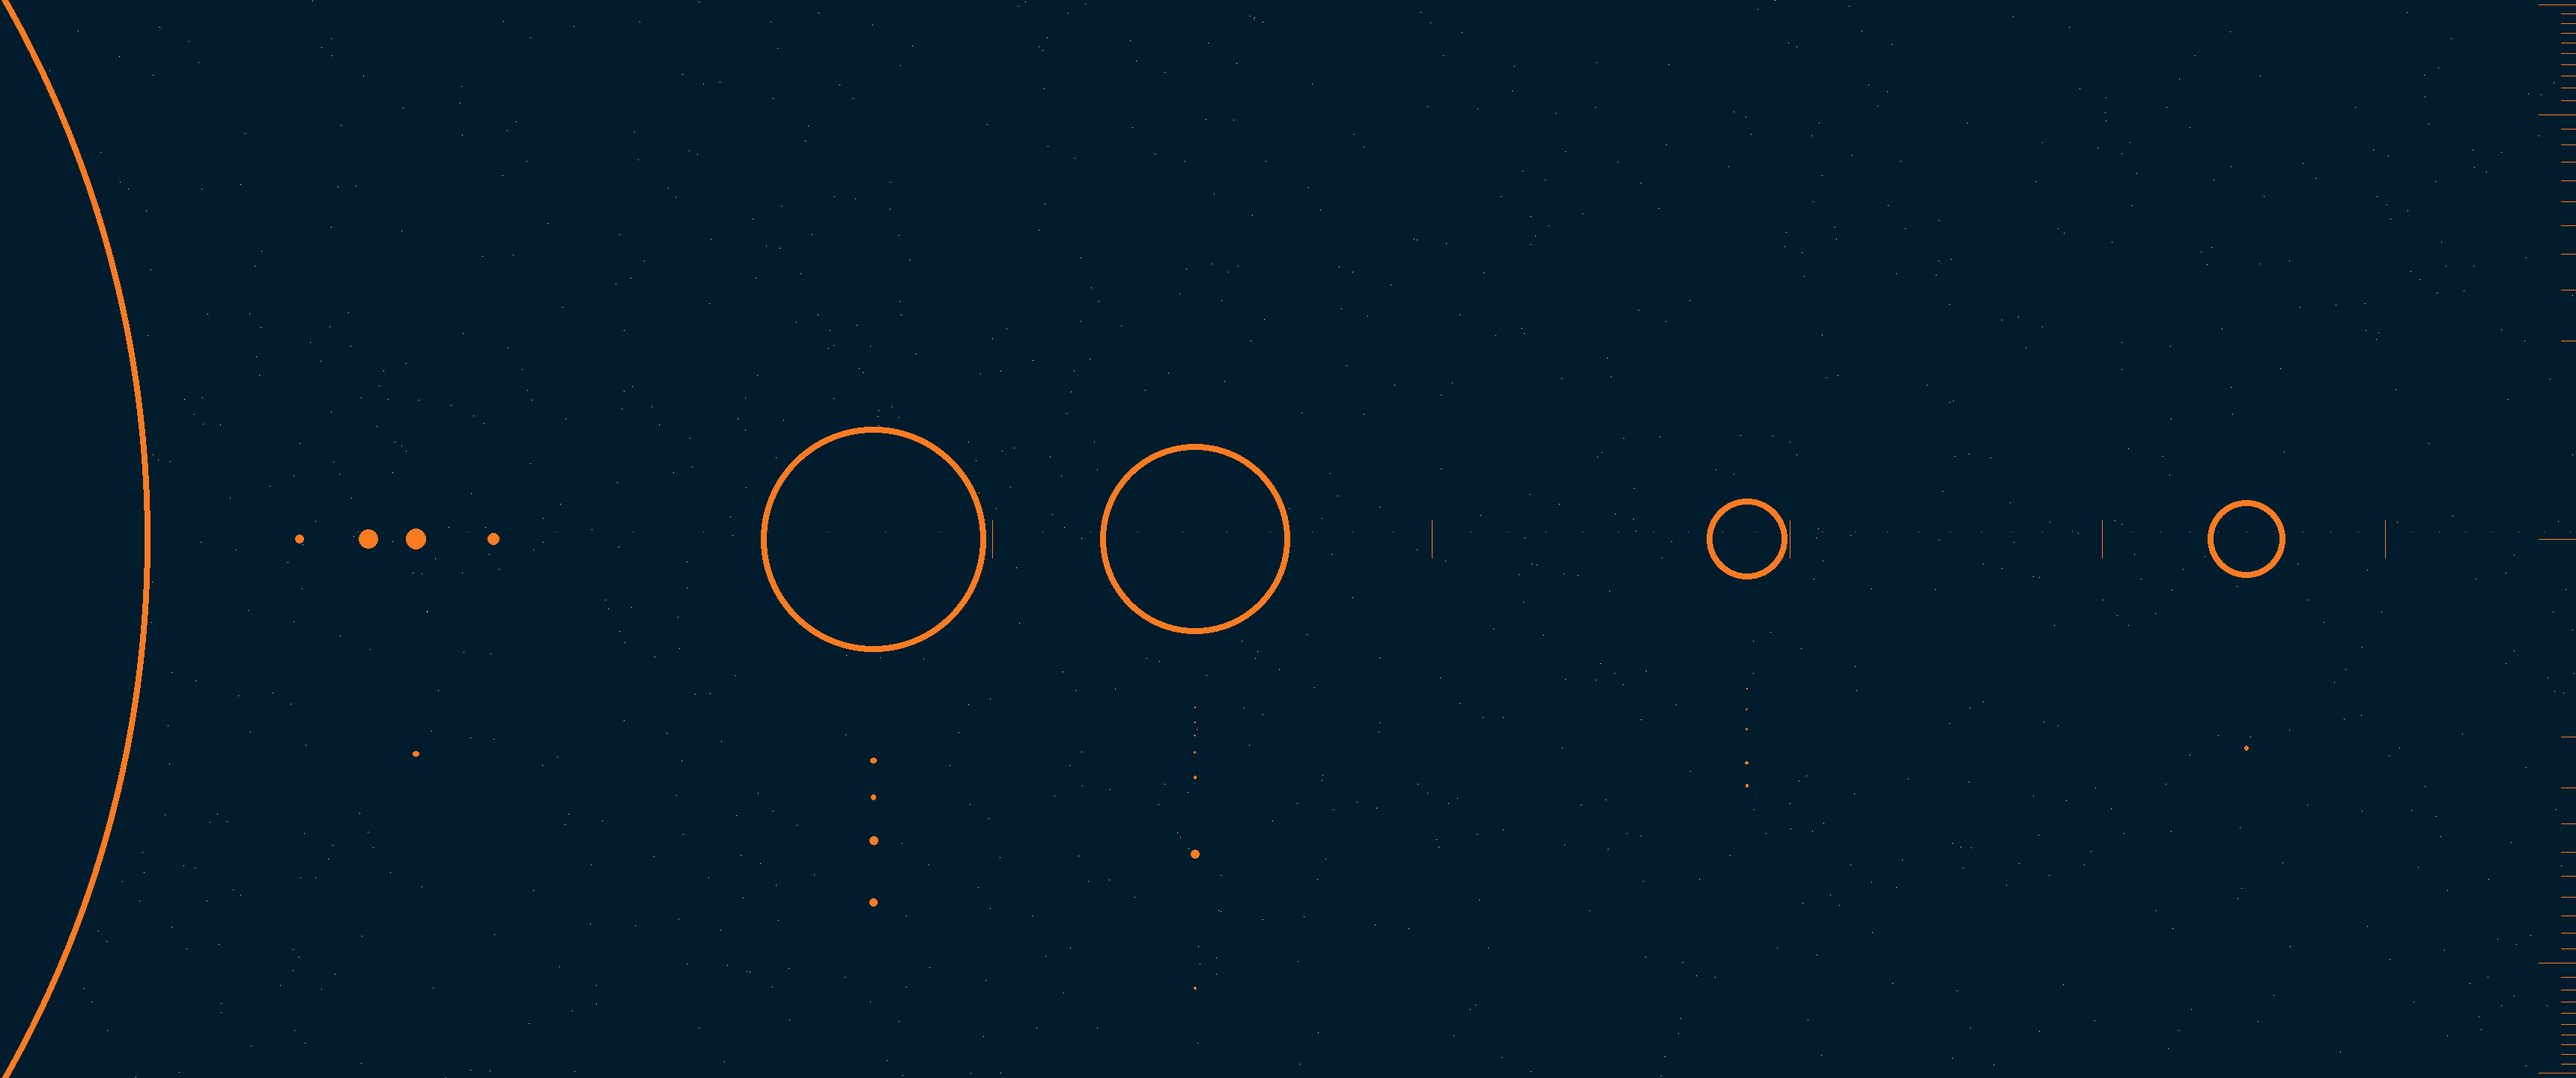
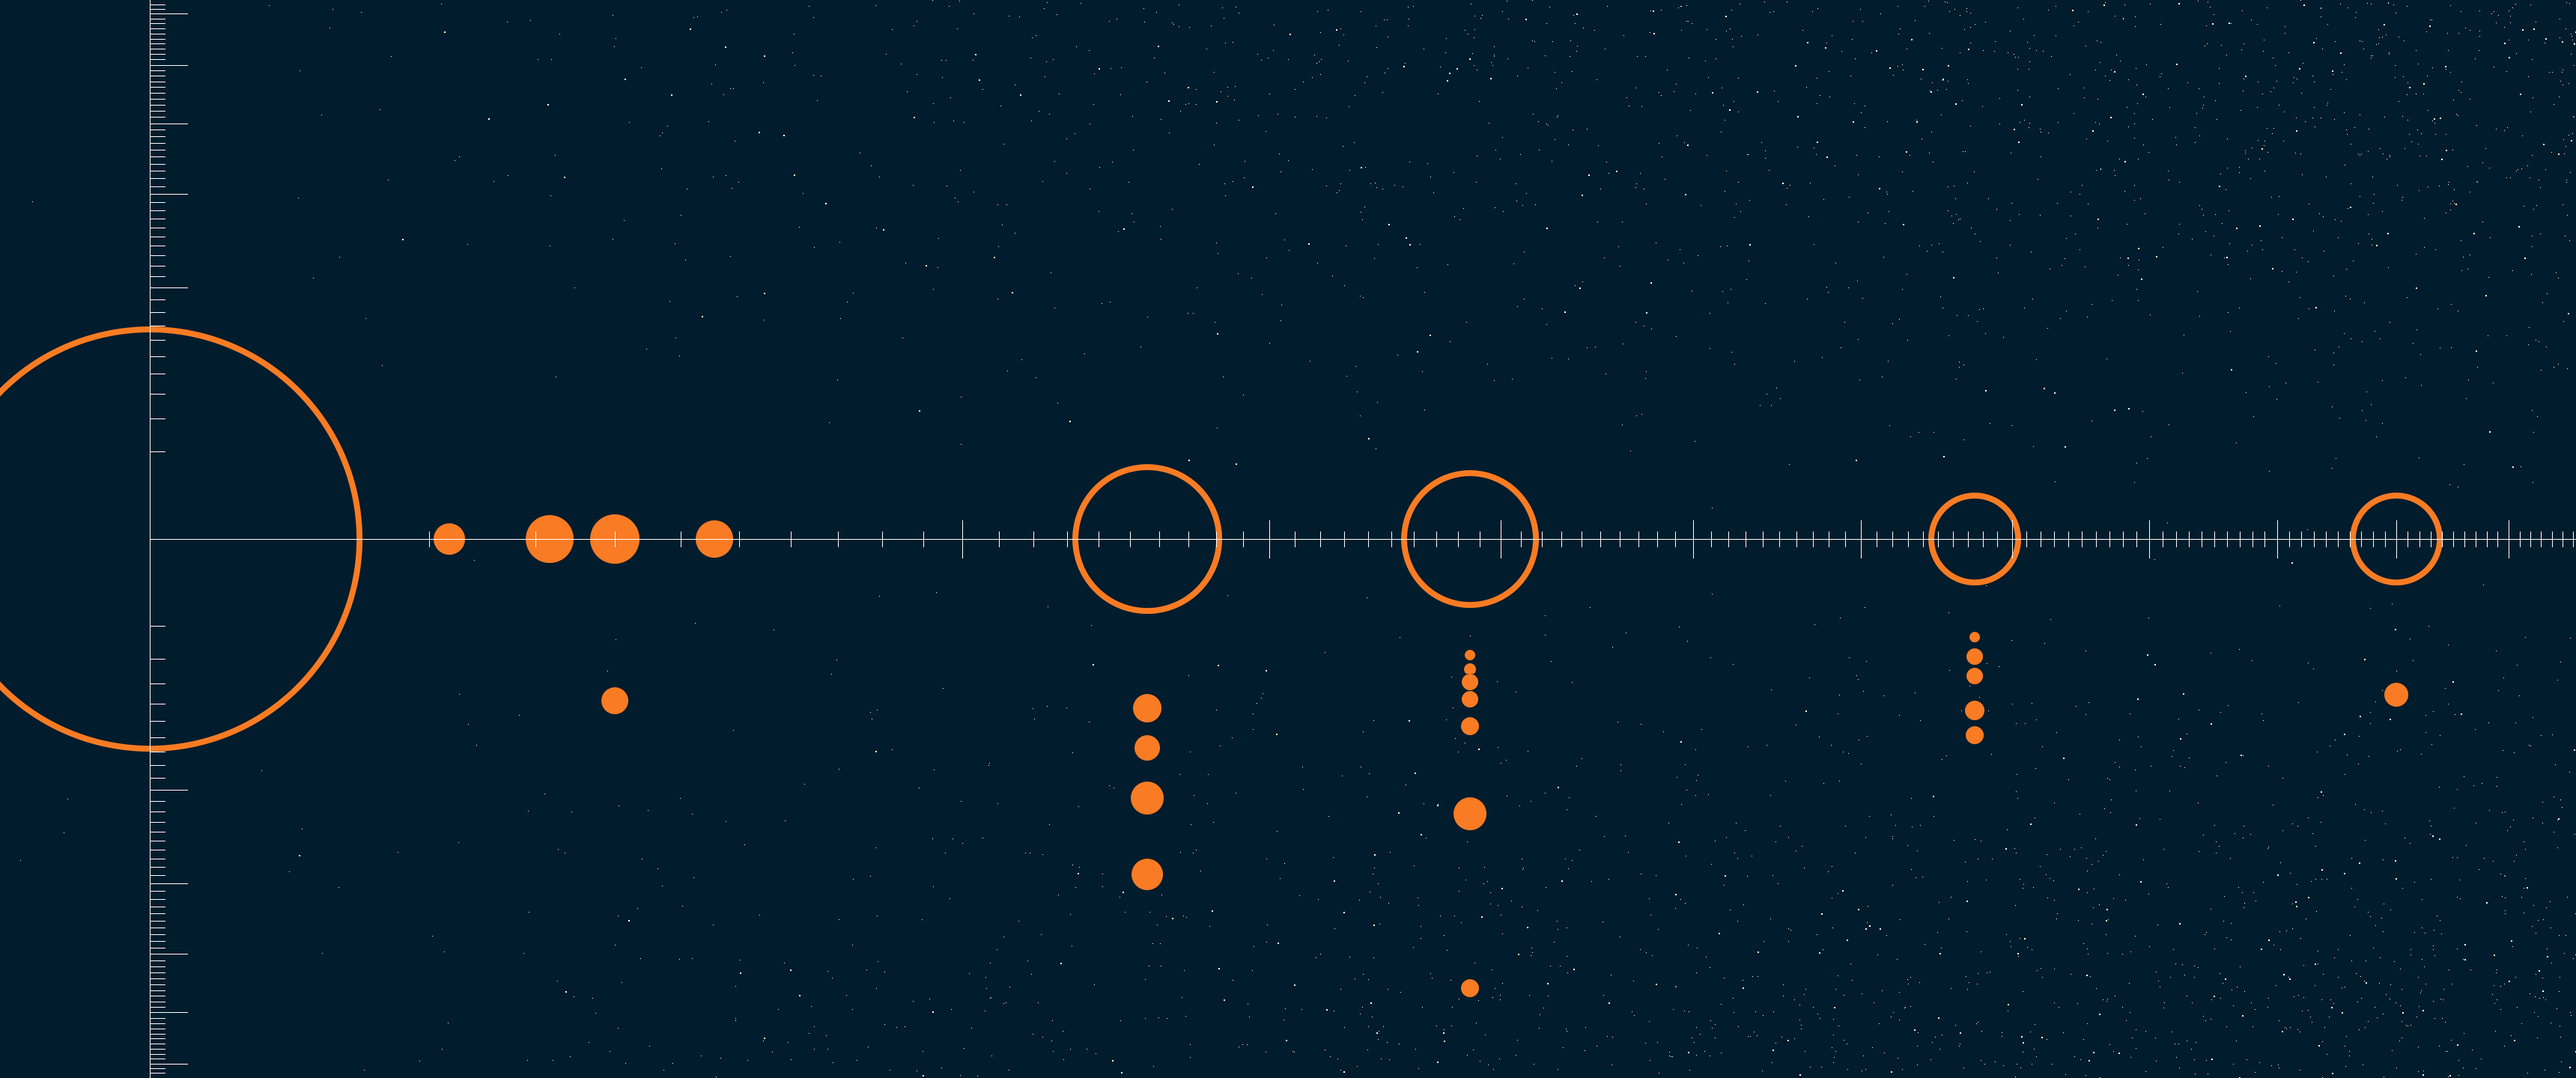
Added antialiasing and better star generation

diff --git a/main.py b/main.py
@@ -14,40 +14,67 @@ class WallpaperImage:
         self.image_height = image_height
         self.image = Image.new('RGBA', (image_width, image_height), WallpaperImage.background)
 
-    def add_stars(self, count):
+    def add_stars(self, pxys):
         # TODO: match actual stars and constellations
-        for i in range(count):
-            x = np.random.randint(0, self.image_width)
-            y = np.random.randint(0, self.image_height)
-            self.image.putpixel((x, y), (255, 255, 255))
+        for px, py in pxys:
+            self.image.putpixel((int(px), int(py)), (255, 255, 255))
 
-    def draw_circle(self, pixel_x, pixel_y, pixel_r, foreground=True):
-        if foreground == True:
-            color = WallpaperImage.foreground
-        else:
-            color = WallpaperImage.background
+            # make 10% stars extra big
+            if np.random.uniform(0, 1) < 0.1:
+                for i in range(2):
+                    for j in range(2):
+                        if int(px+i) < self.image_width and int(py+j) < self.image_height:
+                            self.image.putpixel((int(px+i), int(py+j)), (255, 255, 255))
 
-        draw = ImageDraw.Draw(self.image)
+    def draw_circle(self, pixel_x, pixel_y, pixel_r):
+        antialias_scale = 8
+
+        pixel_x = int(pixel_x + 0.5)
+        pixel_y = int(pixel_y + 0.5)
+        pixel_r = int(pixel_r + 0.5)
+
+        upscale_size = 2*pixel_r*antialias_scale
+        mask = Image.new('RGBA', (upscale_size, upscale_size), WallpaperImage.background)
+        draw = ImageDraw.Draw(mask)
+        bound = (0, 0, upscale_size, upscale_size)
+        draw.ellipse(bound, fill=WallpaperImage.foreground, outline=WallpaperImage.background)
+        mask = mask.resize((2*pixel_r, 2*pixel_r), Image.ANTIALIAS)
+
         bound = (
             pixel_x - pixel_r,
             pixel_y - pixel_r,
             pixel_x + pixel_r,
             pixel_y + pixel_r)
-        draw.ellipse(bound, fill=color, outline=color)
+        self.image.paste(mask, box=bound)
 
     def draw_empty_circle(self, pixel_x, pixel_y, pixel_r, thickness):
-        self.draw_circle(pixel_x, pixel_y, pixel_r, True)
-        self.draw_circle(pixel_x, pixel_y, pixel_r - thickness, False)
+        antialias_scale = 8
 
-    # def draw_scale_top(self, pixels_x, height_ones, height_tens):
-    #     draw = ImageDraw.Draw(self.image)
-    #     for i, pixel_x in enumerate(pixels_x):
-    #         if i%10 == 0:
-    #             draw.line((pixel_x, 0, pixel_x, height_tens), fill=WallpaperImage.foreground)
-    #         else:
-    #             draw.line((pixel_x, 0, pixel_x, height_ones), fill=WallpaperImage.foreground)
+        pixel_x = int(pixel_x + 0.5)
+        pixel_y = int(pixel_y + 0.5)
+        pixel_r = int(pixel_r + 0.5)
 
-    def draw_scale_top(self, pixels_x, height_ones, height_tens):
+        upscale_size = 2*pixel_r*antialias_scale
+        mask = Image.new('RGBA', (upscale_size, upscale_size), WallpaperImage.background)
+        draw = ImageDraw.Draw(mask)
+        bound = (0, 0, upscale_size, upscale_size)
+        draw.ellipse(bound, fill=WallpaperImage.foreground, outline=WallpaperImage.background)
+        bound = (
+            antialias_scale*thickness,
+            antialias_scale*thickness,
+            upscale_size - antialias_scale*thickness,
+            upscale_size - antialias_scale*thickness)
+        draw.ellipse(bound, fill=WallpaperImage.background, outline=WallpaperImage.background)
+        mask = mask.resize((2*pixel_r, 2*pixel_r), Image.ANTIALIAS)
+
+        bound = (
+            pixel_x - pixel_r,
+            pixel_y - pixel_r,
+            pixel_x + pixel_r,
+            pixel_y + pixel_r)
+        self.image.paste(mask, box=bound)
+
+    def draw_scale_horizontal(self, pixels_x, height_ones, height_tens):
         draw = ImageDraw.Draw(self.image)
         for i, pixel_x in enumerate(pixels_x):
             if i%10 == 0:
@@ -56,7 +83,7 @@ class WallpaperImage:
                 draw.line((pixel_x, 720-height_ones/2, pixel_x, 720+height_ones/2), fill="white")
         draw.line((200, 720, 3440, 720), fill="white")
 
-    def draw_scale_right(self, pixels_y, height_ones, height_tens):
+    def draw_scale_vertical(self, pixels_y, height_ones, height_tens):
         draw = ImageDraw.Draw(self.image)
         for i, pixel_y in enumerate(pixels_y):
             if i%10 == 0:
@@ -116,14 +143,26 @@ class CoordinateMapper:
         self.ey = res[1][0]
 
     def pixel_to_real(self, px, py, pr):
-        ax = np.power((px - self.dx)/self.sx, 1/self.ex)
-        ay = np.power((py - self.dy)/self.sy, 1/self.ey)
+        if px >= self.dx:
+            ax = np.power((px - self.dx)/self.sx, 1/self.ex)
+        else:
+            ax = -np.power((self.dx - px)/self.sx, 1/self.ex)
+        if py >= self.dy:
+            ay = np.power((py - self.dy)/self.sy, 1/self.ey)
+        else:
+            ay = -np.power((self.dy - py)/self.sy, 1/self.ey)
         ar = np.power(py/self.sy, 1/self.ey)
         return (ax, ay, ar)
 
     def real_to_pixel(self, ax, ay, ar):
-        px = self.dx + self.sx*np.power(ax, self.ex)
-        py = self.dy + self.sy*np.power(ay, self.ey)
+        if ax >= 0:
+            px = self.dx + self.sx*np.power(ax, self.ex)
+        else:
+            px = self.dx - self.sx*np.power(-ax, self.ex)
+        if ay >= 0:
+            py = self.dy + self.sy*np.power(ay, self.ey)
+        else:
+            py = self.dy - self.sy*np.power(-ay, self.ey)
         pr = self.sy*np.power(ar, self.ey)
         return (px, py, pr)
 
@@ -137,7 +176,7 @@ df_planets.set_index("PLANET", inplace=True)
 df_moons.set_index("MOON", inplace=True)
 
 # list of tuples: (location x, location y, radius, solid)
-circles = []
+circles = [(0, 0, sun_radius, False)]
 
 for index, row in df_planets.iterrows():
     location_x = row["DIST FROM SUN (km)"]
@@ -157,8 +196,8 @@ for index, row in df_moons.iterrows():
 mapper = CoordinateMapper(200, 720)
 # mapper.calc_r(150, df_planets["RADIUS (km)"]["Jupiter"])
 mapper.calc_x(
-    400, df_planets["DIST FROM SUN (km)"]["Mercury"],
-    3000, df_planets["DIST FROM SUN (km)"]["Neptune"])
+    600, df_planets["DIST FROM SUN (km)"]["Mercury"],
+    3200, df_planets["DIST FROM SUN (km)"]["Neptune"])
 mapper.calc_y(
     720+100, df_planets["RADIUS (km)"]["Jupiter"],
     720+600, df_moons["DIST FROM PLANET (km)"]["Iapetus"])
@@ -166,13 +205,18 @@ mapper.calc_y(
 
 """ make image """
 image = WallpaperImage()
-image.add_stars(1000)
 
-# draw sun
-px, py, pr = mapper.real_to_pixel(0, 0, sun_radius)
-# adjust sun px so it touches (0, 0) point
-px = 200 - pr
-image.draw_empty_circle(px, py, pr, 8)
+# draw stars
+num = 3000
+axmin, aymin, _ = mapper.pixel_to_real(0, 0, 0)
+axmax, aymax, _ = mapper.pixel_to_real(3440, 1440, 0)
+axs = np.random.uniform(axmin, axmax, num)
+ays = np.random.uniform(aymin, aymax, num)
+pxys = []
+for i in range(num):
+    px, py, _ = mapper.real_to_pixel(axs[i], ays[i], 0)
+    pxys.append((px, py))
+image.add_stars(pxys)
 
 # draw planets + moons
 for ax, ay, ar, solid in circles:
@@ -182,18 +226,19 @@ for ax, ay, ar, solid in circles:
     else:
         image.draw_empty_circle(px, py, pr, 8)
 
-# draw top scale
-ones_x = 1e8
+# draw horizontal scale
+ones_x = 5e7
 max_ax = mapper.pixel_to_real(3440, mapper.dy, 0)[0]
 axs = np.arange(0, max_ax, ones_x)
 pxs = [mapper.real_to_pixel(ax, 0, 0)[0] for ax in axs]
-image.draw_scale_top(pxs, 20, 50)
+image.draw_scale_horizontal(pxs, 20, 50)
 
-# draw right scale
+# draw vertical scale
 ones_y = 1e5
 max_ay = mapper.pixel_to_real(mapper.dx, 1440, 0)[1]
 ays = np.arange(0, max_ay, ones_y)
 pys = [mapper.real_to_pixel(0, ay, 0)[1] - 720 for ay in ays]
-image.draw_scale_right(pys, 20, 50)
+image.draw_scale_vertical(pys, 20, 50)
+
+image.save()
 image.show()
-# image.save()
